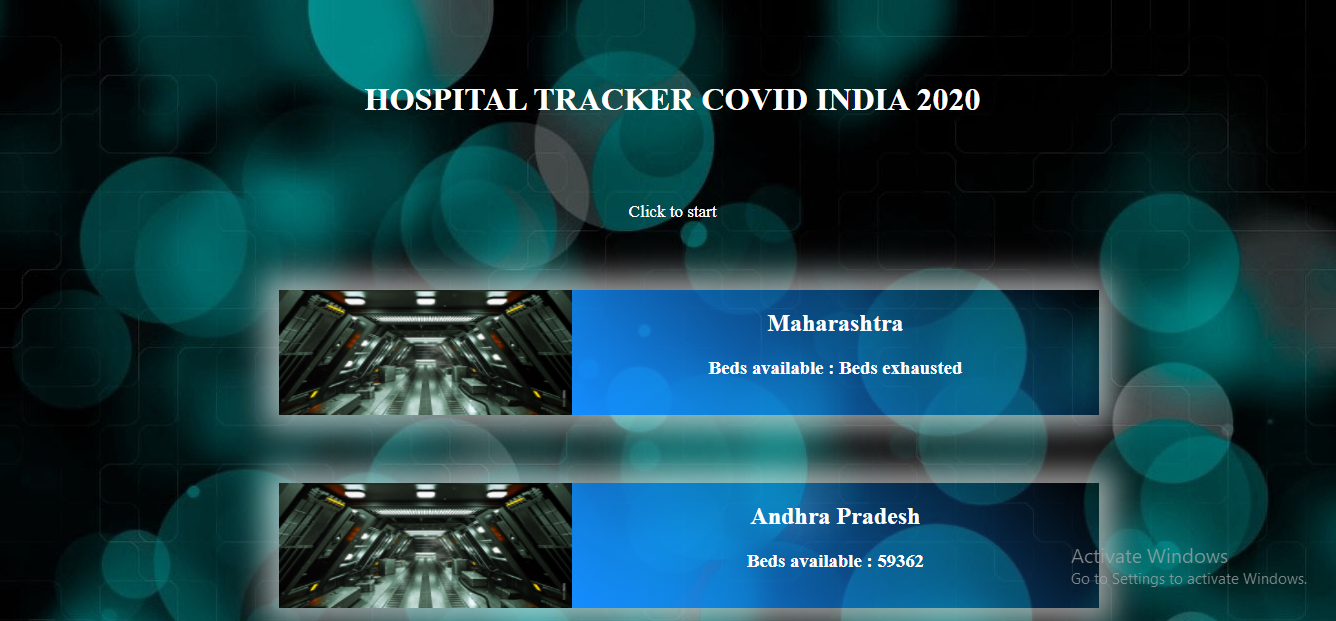
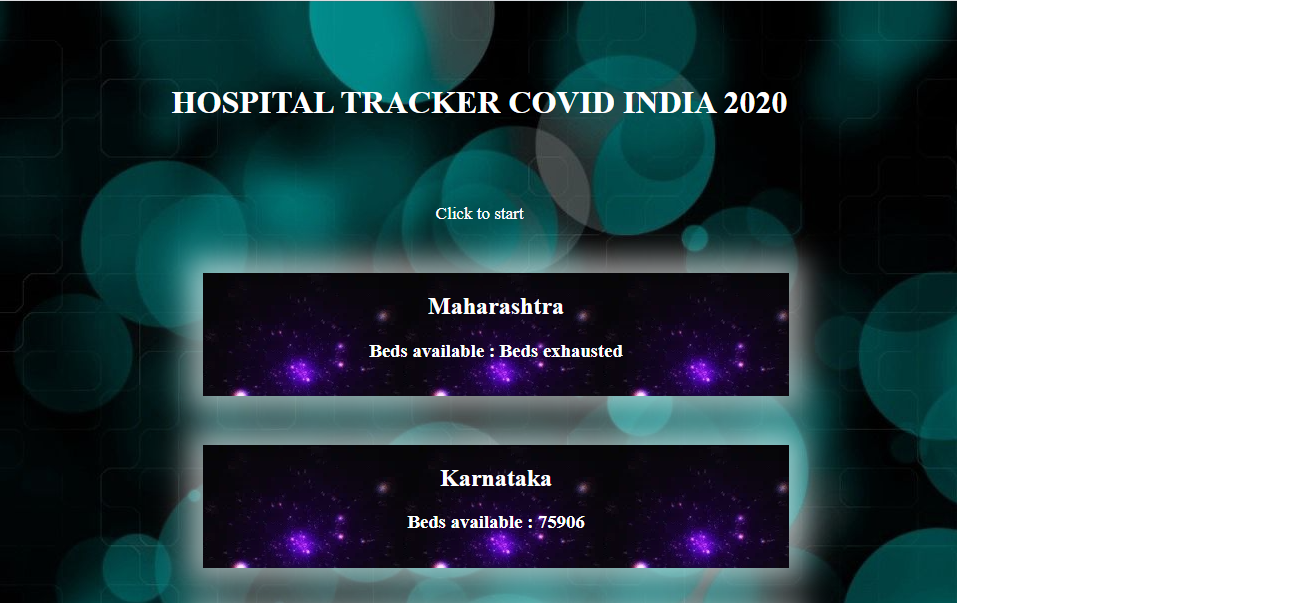
Updated MIME types for webp

diff --git a/main.html b/main.html
@@ -5,7 +5,7 @@
             body
             {
                 text-align: center;
-                background-color: white;
+                color: white;
             }
             .card-layout
             {
@@ -25,8 +25,8 @@
             }
             .box2
             {
-                background: linear-gradient(45deg, #148dff, transparent);
-                width: 90%;
+                background-image: url('./images/card_backpic.webp');
+                width: 100%;
             }
         </style>
     </head>
@@ -44,9 +44,9 @@
             </table>-->
             <div style="position: relative; top: 20vh;">
             <div class="card-layout" ng-repeat="x in locInfo">
-                <div class="flex-item box1">
+                <!--<div class="flex-item box1">
                     <img src="./images/logo.jpg" height="125" width="100%"> 
-                </div>
+                </div>-->
                 <div class="flex-item box2"> 
                     <h2>{{x.state}}</h2>
                     <h3>Beds available : {{x.activeCases}}</h3>

diff --git a/indexAngularJS.html b/indexAngularJS.html
@@ -6,6 +6,7 @@
             {
                 text-align: center;
                 color: white;
+                background-image: url('./images/indexAngularJSBackpic.jpg');
             }
             a, a:visited, a:hover
             {
@@ -15,7 +16,7 @@
             }
         </style>
     </head>
-    <body style="background-image: url('./images/indexAngularJSBackpic.jpg');">
+    <body>
         <p style="color: white"><h1 style="position: relative; top: 10vh;">HOSPITAL TRACKER COVID INDIA 2020</h1></p>
         <a href="#/main" style="position: relative; top: 20vh; color: white;">Click to start</a>
         <div ng-controller="MainCtrl">

diff --git a/server.js b/server.js
@@ -10,7 +10,8 @@ const mimeTypes = {
 	"png": "image/png",
 	"js": "text/javascript",
 	"css": "text/css",
-	"json":"text/json"
+	"json":"text/json",
+	"webp":"image/webp"
 };
 
 http.createServer(function(req, res){

diff --git a/README.md b/README.md
@@ -1,19 +1,20 @@
 # COVIDindiaHospitalTracker
 
-Tried to make a website that displays state-wise the number of active COVID-19 cases in India and the approximate number of hospital beds that remains for servicing patients(these patients may or maynot be affected by COVID-19). It is noted that the number of hospital beds per state has been obtained from https://www.kaggle.com/sudalairajkumar/covid19-in-india which in turn have got the data from https://pib.gov.in/PressReleasePage.aspx?PRID=1539877. Values are subject to change and should be treated as an approximation. 
+Tried to make a website that displays state-wise the number of active COVID-19 cases in India and the approximate number of hospital beds that remains for servicing patients(these patients may or may not be affected by COVID-19, it displays the number of beds that may be used for servicing patients inflicted with covid-19 or other ailments). It is noted that the number of hospital beds per state has been obtained from https://www.kaggle.com/sudalairajkumar/covid19-in-india which in turn have got the data from https://pib.gov.in/PressReleasePage.aspx?PRID=1539877. Values are subject to change and should be treated as an approximation. 
 
 Tech used to realize this
 
-:herb: Python has been employed to obtain the number of active cases, state-wise from covid19india.org. At first requests module was used but later it was found that the table in the page is injected by JavaScript after it loads so the html cannot be obtained using requests or urllib. Selenium was used to get the html of the page.
+:herb: Python has been employed to obtain the number of active cases, state-wise from covid19india.org. At first requests module was used but later it was found that the table in the page is injected by JavaScript(specifically as on 02-11-2020 React was being used) after it loads so the html cannot be obtained using requests or urllib. Selenium was used to get the html of the page.
 
 :herb: Once the html is extracted, the table was parsed using the powerful BeautifulSoup library in Python. The names of states and the corresponding active cases were extracted and stored in a json file. As of 31-10-2020 the active cases has a class=total and the title of the element holds the number of active cases. All columns have a class=total, column 2 or index 1 element returned by findall is the one to be considered.
 
-:herb:A node.js server was set up to serve pages that uses AngularJS. Server is set up without using express. Within the server, whenever the requested page is the one that displays the table(state and hospital beds), the python script is executed by spawning a child process. Once done, the data is obtained via a get request from within the controller of the angular app and rendered to the screen via simple angular directives like ng-repeat.
+:herb:A node.js server was set up to serve pages that uses AngularJS. Server is set up without using express. Within the server, whenever the requested page is the one that displays the table(state and hospital beds), the python script is executed by spawning a child process. Once done, the data is obtained via a get request from within the controller of the angular app and rendered to the screen via simple angular directives like ng-repeat. Usage of Angular is not necessary, it is used simple as at that point of time I was learning the basics of Angular. Using Django we could have achieved the same functionality, that is, executing the Python script and displaying the output using views.py and Django template tags. 
 
 Difficulties faced and updated:
-1. Selenium returns the page as soon as it gets loaded but does not wait for the correspoding JavaScript to be injected to the page. So it is made to wait expected conditions where the condition is that a css class element state-name has been loaded.
+1. Selenium returns the page as soon as it gets loaded but does not wait for the correspoding JavaScript to be injected to the page. So it is made to wait using expected conditions where the condition is that a css class element state-name has been loaded.
 2. The driver for Selenium required frequent updation to match Chrome version.
-3. The layout of the page whenever updated cuases problems as it is heavily dependant on the class names of select components.
+3. Whenever the layout of the page is updated, it causes problems as extraction is heavily dependant on the class names of specific components.
+4. To serve webp images, it is to be included in the list of accepted MIME times as image/webp.
 
 
-![output_screenshot](https://user-images.githubusercontent.com/41965125/97781927-8dae3680-1bb4-11eb-9c8e-135e449ac876.png)
+![output_screenshot](https://user-images.githubusercontent.com/41965125/97866715-71d09f00-1d32-11eb-9a35-5418a5350422.png)
